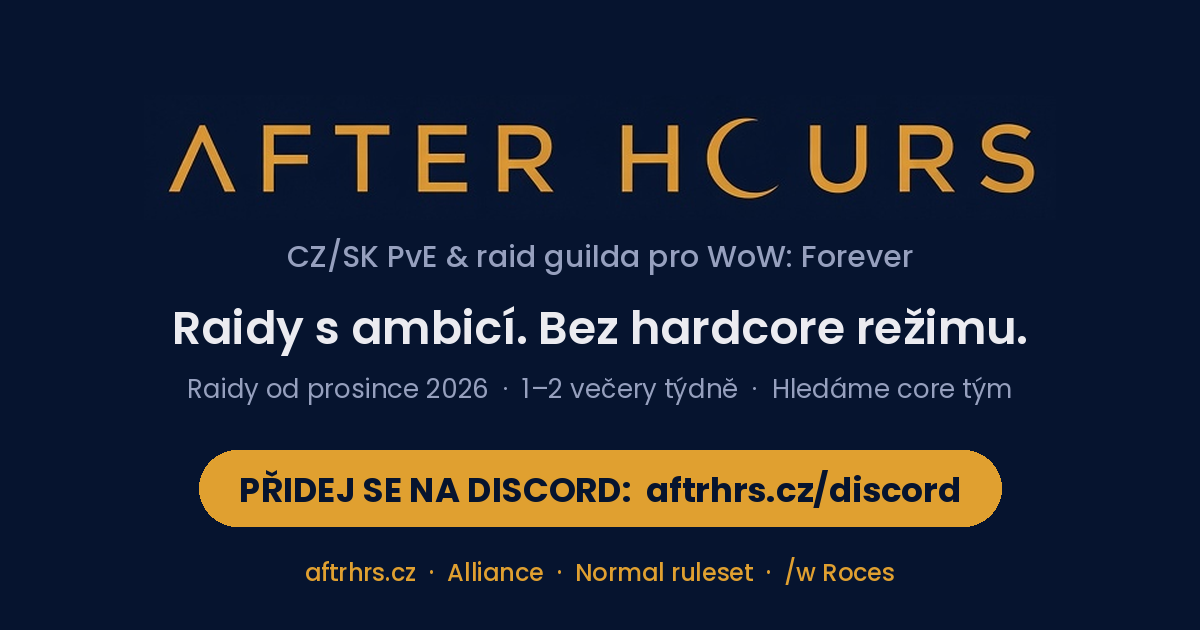
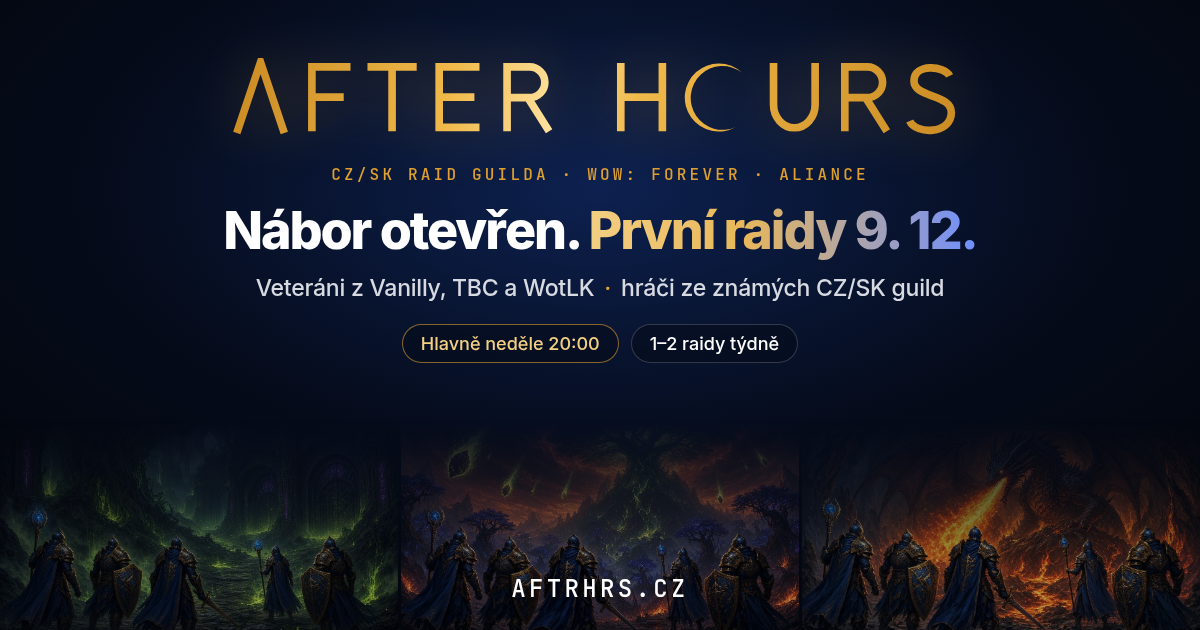
Rozvrh 1–2 raidy týdně, hlavně neděle; nový og obrázek

diff --git a/index.html b/index.html
@@ -4,9 +4,9 @@
 <meta charset="utf-8">
 <meta name="viewport" content="width=device-width,initial-scale=1">
 <title>After Hours – CZ/SK PvE &amp; raid guilda pro WoW: Forever</title>
-<meta name="description" content="After Hours je CZ/SK PvE a raid guilda pro WoW: Forever. Raidy od 9. 12. 2026, středa + neděle 20:00–22:30. Progress bez hardcore režimu.">
+<meta name="description" content="After Hours je CZ/SK PvE a raid guilda pro WoW: Forever. Raidy od 9. 12. 2026, 1–2× týdně, hlavně neděle 20:00–22:30. Progress bez hardcore režimu.">
 <meta property="og:title" content="After Hours – CZ/SK PvE &amp; raid guilda pro WoW: Forever">
-<meta property="og:description" content="Raidy s ambicí. Bez hardcore režimu. Raidy od 9. 12. 2026, středa + neděle 20:00–22:30.">
+<meta property="og:description" content="Raidy s ambicí. Bez hardcore režimu. Raidy od 9. 12. 2026, 1–2× týdně, hlavně neděle 20:00–22:30.">
 <meta property="og:image" content="https://aftrhrs.cz/og.png">
 <meta property="og:url" content="https://aftrhrs.cz/"><link rel="preconnect" href="https://fonts.gstatic.com" crossorigin>
 <link href="https://fonts.googleapis.com/css2?family=Inter:wght@400;500;600;700;800&family=JetBrains+Mono:wght@500&display=swap" rel="stylesheet">
@@ -19,8 +19,8 @@
 <p class="lab in1">NÁBOR OTEVŘEN · CORE NA PROSINEC</p>
 <h1 class="in2"><span class="glow"><span class="wm" role="img" aria-label="After Hours"></span></span></h1>
 <p class="tag in3">Raidujeme po práci.<br><span class="gt">Bossové padají i tak.</span></p>
-<p class="facts in3">CZ/SK raid guilda pro Alianci ve WoW: Forever. Dva raid večery týdně, progress s ambicí, žádný no-life.</p>
-<ul class="chips in3"><li>CZ/SK</li><li>Alliance</li><li>Normal ruleset</li><li>Středa + Neděle 20:00–22:30</li></ul>
+<p class="facts in3">CZ/SK raid guilda pro Alianci ve WoW: Forever. 1–2 raid večery týdně, progress s ambicí, žádný no-life.</p>
+<ul class="chips in3"><li>CZ/SK</li><li>Alliance</li><li>Normal ruleset</li><li>Neděle 20:00–22:30</li></ul>
 <div class="hcta in4"><a class="btn xl" href="https://discord.gg/SnGkYU36pn"><svg viewBox="0 0 24 24" class="bi" aria-hidden="true"><path d="M4 5h16v11H9l-5 4z"/></svg>Přidej se na Discord</a>
 <div class="cd" id="cd"><p class="lab" id="cdl">START WOW: FOREVER</p><div class="cdn" id="cdn"><span><b>--</b><i>dní</i></span><span><b>--</b><i>hod</i></span><span><b>--</b><i>min</i></span><span><b>--</b><i>s</i></span></div></div></div>
 <p class="micro in4">Skládáme core na první raidy 9. 12. 2026. Tanky, healery, dpskaře.</p>
@@ -39,7 +39,7 @@
 
 <section class="sec"><p class="lab c">PROČ AFTER HOURS</p><h2 class="rv">Progress bez no-lifu.</h2>
 <div class="tiles">
-<div class="tile rv"><p class="lab">01 · ČAS</p><h3>2 raidy týdně</h3><p>Středa a neděle, <span style="white-space:nowrap">20:00–22:30</span>. Začínáme včas, končíme včas. Zbytek týdne je tvůj.</p></div>
+<div class="tile rv"><p class="lab">01 · ČAS</p><h3>1–2 raidy týdně</h3><p>Hlavně neděle <span style="white-space:nowrap">20:00–22:30</span>, středa podle zájmu. Končíme včas, zbytek týdne je tvůj.</p></div>
 <div class="tile rv"><p class="lab">02 · ORGANIZACE</p><h3>Žádný chaos</h3><p>Taktiky znáš předem, role sedí, raid lead to drží v klidu.</p></div>
 <div class="tile rv"><p class="lab">03 · LOOT</p><h3>Loot bez dramat</h3><p>Pravidla zveřejníme na Discordu ještě před prvním raidem. Nikdo se nehádá o každý drop.</p></div>
 <div class="tile rv"><p class="lab">04 · LIDI</p><h3>Wipe? V pohodě.</h3><p>Dospělá parta. Po wipu se zasmějeme, opravíme a jedeme znova.</p></div>
@@ -68,7 +68,7 @@
 <section class="sec" id="progress"><p class="lab c">PROGRESS · OD 9. 12. 2026</p><h2 class="rv">Od prvního pullu po full clear.</h2>
 <div class="road"><div class="rs1 rv"><p class="lab">LISTOPAD</p><h3>Nábor, leveling, příprava</h3><p>Skládáme core, levelujeme na 60, attune na Onyxii, pre-raid BiS, consumy.</p></div>
 <div class="rs1 hot rv"><p class="lab">9. 12. 2026 · STŘEDA</p><h3>První raidy</h3><p>Barrow Deeps, Hyjal Summit a Onyxia's Lair se otevírají.</p></div>
-<div class="rs1 rv"><p class="lab">KAŽDÝ TÝDEN</p><h3>Raid night ×2</h3><p>Středa (den resetu) a neděle, vždy <span style="white-space:nowrap">20:00–22:30</span>.</p></div></div>
+<div class="rs1 rv"><p class="lab">KAŽDÝ TÝDEN</p><h3>1–2 raid nights</h3><p>Hlavní raid night: neděle <span style="white-space:nowrap">20:00–22:30</span>. Druhý večer (středa, den resetu) podle zájmu.</p></div></div>
 <div class="raids" id="raids"></div>
 <details class="dd rv"><summary>Dungeony od startu (28)</summary><div id="dungeons"></div></details>
 <p class="note">Počty bossů Barrow Deeps a Hyjal Summit vychází z beta dat a fan webů, Blizzard je zatím oficiálně nepotvrdil. ★ = nový dungeon ve WoW: Forever.</p></section>
